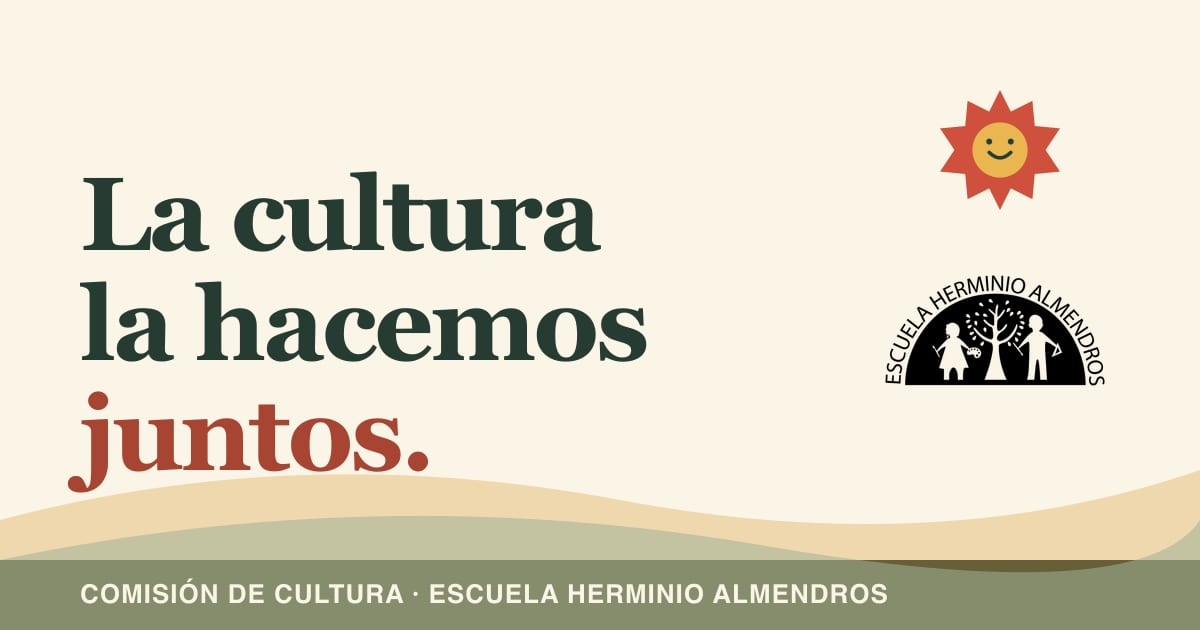
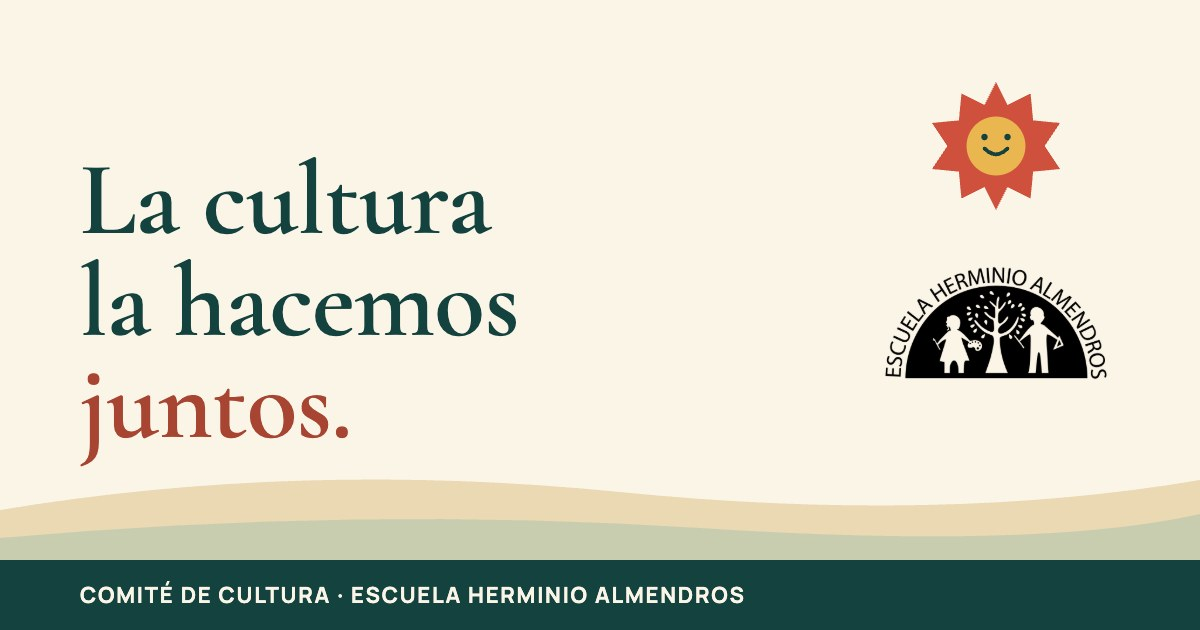
style: verde petróleo de la Escuela en tinta, portadas y pie
ink pasa a #14423f, el mismo verde del sitio de la Escuela; ink-hover y
cover-forest salen de su familia. DESIGN.md registra la regla y la
revisión 6 del teatro.

diff --git a/src/styles/tailwind.css b/src/styles/tailwind.css
@@ -18,7 +18,7 @@
   --color-*: initial;
   --color-white: #fff;
   --color-paper: #fbf5e8;
-  --color-ink: #263b32;
+  --color-ink: #14423f;
   --color-coral: #a74432;
   --color-rust: #823324;
   --color-sun: #dca342;
@@ -29,7 +29,7 @@
   --color-gold: #e3bc75;
   --color-mist: #d1d5c5;
   --color-ochre: #e7bc62;
-  --color-forest: #385b4c;
+  --color-forest: #265e55;
   --color-sage: #dce3d3;
   --color-blush: #e9c9b6;
   --color-note: #e3e8dc;
@@ -152,10 +152,10 @@
     border: 1px solid #ffffffb3;
     box-shadow:
       inset 0 1px 0 #ffffffe6,
-      inset 0 -1px 0 #263b3214,
+      inset 0 -1px 0 #14423f14,
       inset 0 0 18px #ffffff59,
-      0 8px 28px #263b321f,
-      0 1px 3px #263b321a;
+      0 8px 28px #14423f1f,
+      0 1px 3px #14423f1a;
     backdrop-filter: blur(18px) saturate(1.35) brightness(1.06);
     -webkit-backdrop-filter: blur(18px) saturate(1.35) brightness(1.06);
   }

diff --git a/src/styles/global.css b/src/styles/global.css
@@ -585,7 +585,7 @@ button svg {
 }
 .paper-link:hover {
   transform: translateY(-2px);
-  background: #3c5646;
+  background: #215551;
 }
 .paper-link:active {
   transform: translateY(1px);
@@ -895,7 +895,7 @@ button svg {
   align-items: baseline;
   gap: 16px;
   padding: 16px 0;
-  border-top: 1px solid #263b3233;
+  border-top: 1px solid #14423f33;
 }
 .program-list li > span:first-child {
   font-family: "Cormorant Garamond", Georgia, serif;
@@ -976,7 +976,7 @@ button svg {
   gap: 24px;
   text-decoration: none;
   padding: 24px 0;
-  border-top: 1px solid #263b3244;
+  border-top: 1px solid #14423f44;
 }
 .reading-links strong {
   font-family: "Cormorant Garamond", Georgia, serif;

diff --git a/DESIGN.md b/DESIGN.md
@@ -1,19 +1,19 @@
 ---
-name: "Herminio · Teatro de papel (revisión 5)"
-description: "Teatro conducido por scroll vertical nativo, vistas previas en inicio y páginas editoriales independientes."
+name: "Herminio · Teatro de papel (revisión 6)"
+description: "Teatro de una escena a la vez con cambio automático de actos, vistas previas en inicio y páginas editoriales independientes."
 colors:
   paper: "#fbf5e8"
-  ink: "#263b32"
+  ink: "#14423f"
   coral: "#a74432"
   rust: "#823324"
   yellow: "#dca342"
   blue: "#4b6899"
   wood: "#3c251e"
-  ink-hover: "#3c5646"
+  ink-hover: "#215551"
   theatre-label: "#fff2d8"
   books-sage: "#dce3d3"
   cover-ochre: "#e7bc62"
-  cover-forest: "#385b4c"
+  cover-forest: "#265e55"
   bulletin-paper: "#eed7c6"
   night-copy: "#fff5db"
   night-emphasis: "#efd38b"
@@ -59,11 +59,6 @@ typography:
     fontSize: "16px"
     fontWeight: 400
     lineHeight: 1.6
-  scene-body:
-    fontFamily: "Manrope, sans-serif"
-    fontSize: "16px"
-    fontWeight: 400
-    lineHeight: 1.75
   reader-intro:
     fontFamily: "Manrope, sans-serif"
     fontSize: "20px"
@@ -104,12 +99,11 @@ components:
   button-text:
     textColor: "{colors.ink}"
     padding: "0 0 4px"
-  stage-button:
-    backgroundColor: "#42251dcc"
-    textColor: "{colors.theatre-label}"
-    rounded: "{rounded.control}"
-    height: "44px"
-    width: "44px"
+  act-label:
+    backgroundColor: "{colors.paper}"
+    textColor: "{colors.ink}"
+    width: "200px"
+    padding: "4px"
   header-glass:
     backgroundColor: "#fbf5e8c9"
     textColor: "{colors.ink}"
@@ -122,20 +116,20 @@ components:
     padding: "48px"
 ---
 
-# Design System: Herminio · Teatro de papel · revisión 5
+# Design System: Herminio · Teatro de papel · revisión 6
 
 ## Overview
 
 **Creative North Star: "Teatro de papel"**
 
-La revisión 5 conserva el teatro de papel en la entrada y usa el desplazamiento vertical nativo del documento para conducir todos sus pasos: primero viaja el contenido horizontalmente y después cambia la escenografía completa. Figuras y capas entran, se desplazan y salen durante ese recorrido. Al terminar, el inicio ofrece vistas previas de libros y actividades y una invitación a los boletines; Cartelera, Libros y Boletines tienen páginas propias. Esta instrucción del usuario sustituye el carrusel horizontal independiente de v4, sin reemplazar la identidad elegida. El `ship` de v4 queda como antecedente histórico del sitio, no como aprobación de esta revisión.
+La revisión 6 conserva el teatro de papel en la entrada, pero ya no lo liga al scroll: el escenario mide una pantalla y muestra un acto a la vez. Cada (9s) los actos cambian solos con un apagón por zonas; flechas en la etiqueta del acto permiten moverse a mano. La revisión 5 conducía seis pasos con el scroll vertical (viajes horizontales, cambios verticales de decorado y figuras que entraban y salían); se retiró en noviembre de 2026 porque la página se sentía pesadísima, sobre todo al compartir pantalla. Debajo del teatro, el inicio ofrece vistas previas de Boletines, Cartelera y Lecturas, que tienen páginas propias.
 Las figuras SVG originales, la fibra de papel y el telón raster mantienen un mundo gráfico común. Cormorant Garamond da carácter cultural a los títulos y Manrope sostiene la lectura. Una cabecera delgada de vidrio translúcido, pedida expresamente por el usuario, permite acceder directamente a los contenidos. La noche es una escenografía azul completa con texto claro, no una transformación global del sitio.
 
 **Key Characteristics:**
 
 - Teatro sólo en la entrada; contenido editorial convencional fuera del telón.
-- Tres decorados completos: jardín, ciudad y bosque nocturno.
-- Un scroll vertical nativo conduce seis pasos, movimiento horizontal y cambios verticales de decorado.
+- Tres actos: jardín (Boletines), ciudad (Cartelera) y bosque nocturno (Lecturas).
+- Un acto a la vez; cambio automático con apagón por zonas, sin nada ligado al scroll.
 - Vistas previas con disponibilidad explícita y páginas editoriales independientes.
 - Logos escolares originales como firma comunitaria y de pie de página.
 - Cabecera translúcida de 48px y navegación directa por enlaces.
@@ -144,6 +138,8 @@ Las figuras SVG originales, la fibra de papel y el telón raster mantienen un mu
 ## Colors
 
 Papel crema y tinta verde conectan las piezas escénicas con las secciones editoriales. Los tokens registran la implementación v5; los colores literales de cada ilustración y degradado siguen siendo material local de escena.
+
+**Verde de marca: petróleo, no pino.** Desde noviembre de 2026 la tinta (`ink`) es el petróleo `#14423f` del sitio de la Escuela (`herminio-web/src/styles/brand.css`), que pasó a ese tono el 2 de noviembre de 2026 para no parecerse al verde pino `#1d4426` de Cumani (cumani.mx). Los verdes de marca e interfaz (`ink`, `ink-hover`, `cover-forest`, pie, logo de la flor) salen de la misma familia que la Escuela —verde `#14423f`, arco `#1b4d49`, `#215551`, `#265e55`— y no usan tonos pino ni verdes cálidos o amarillentos. Los verdes de paisaje (jardín, follaje, bosque) son material de escena y no siguen esta regla. Contraste sobre papel `#fbf5e8`: `ink` 10.28, `ink-hover` 7.78 (texto del enlace principal en hover); título en papel nocturno sobre `cover-forest`: 6.87.
 
 ### Primary
 - **Coral teatral** (`coral`): énfasis serif, navegación activa y hover de enlaces.
@@ -159,9 +155,9 @@ Papel crema y tinta verde conectan las piezas escénicas con las secciones edito
 ### Neutral
 - **Papel crema** (`paper`), **tinta verde** (`ink`) y **tinta activa** (`ink-hover`): superficies de lectura, texto y enlace principal.
 - **Madera oscura** (`wood`) y **luz de sala** (`theatre-label`): exterior de la entrada y controles sobre el telón.
-- **Papel nocturno** (`night-copy`), **oro nocturno** (`night-emphasis`) y **papel del enlace nocturno** (`night-link`): contraste de la copia y enlace principal del decorado de noche. La hoja del segundo panel conserva tinta oscura sobre papel claro. Las leyendas de papel del escenario también declaran tinta verde explícita (`color: var(--ink)`), incluso dentro del decorado nocturno.
+- **Papel nocturno** (`night-copy`), **oro nocturno** (`night-emphasis`) y **papel del enlace nocturno** (`night-link`): contraste de la copia y enlace principal del decorado de noche. Las leyendas de papel del escenario también declaran tinta verde explícita (`color: var(--ink)`), incluso dentro del decorado nocturno.
 
-Los tres cielos y sus degradados forman parte de decorados completos, sin un estado `--night` global ni botones para cambiar la luz. Cada escena declara además un fondo base local —jardín `#ead9b2`, ciudad `#edc9b5` y noche `#29356b`— para conservar una superficie estable si no se representa el degradado. La cortina acompaña la llegada del bosque nocturno mediante brillo dependiente de la posición vertical. El verde `--mint` sigue declarado, pero no se registra como token activo porque el código no lo asigna a una superficie.
+Los tres cielos y sus degradados forman parte de decorados completos, sin un estado `--night` global ni botones para cambiar la luz. Cada escena declara además un fondo base local —jardín `#ead9b2`, ciudad `#edc9b5` y noche `#29356b`— para conservar una superficie estable si no se representa el degradado. El telón no se oscurece nunca: ni en la noche ni durante el apagón. El verde `--mint` sigue declarado, pero no se registra como token activo porque el código no lo asigna a una superficie.
 
 **The Same Paper Rule.** Fuera del teatro se conservan fibra, ilustraciones, tinta, serif y colores de papel; la continuidad gráfica no necesita conservar la cortina.
 
@@ -178,10 +174,10 @@ Los tres cielos y sus degradados forman parte de decorados completos, sin un est
 - **Cover title:** títulos de cubiertas; pasan a (30px) hasta (1100px) y a (24px) hasta (700px).
 - **Title:** título de publicación destacada; títulos auxiliares comparten esta familia y escala con variaciones locales.
 - **Reader headline / Reader title:** título y subtítulos del artículo.
-- **Body / Scene body / Reader intro:** texto general, presentación escénica y entradilla de artículo.
+- **Body / Reader intro:** texto general y entradilla de artículo. Los actos del teatro no llevan párrafo: sólo etiqueta de sección, título, botón y leyenda de papel.
 - **Label:** navegación y enlaces de vuelta; el enlace principal usa (14px), peso (700).
 
-Los titulares escénicos pasan a (72px) hasta (1100px) de ancho y a (48px) hasta (700px), también a (48px) cuando la altura disponible no supera (720px). Las hojas de segundo panel pasan a (36px) en móvil o altura reducida. Los títulos de páginas editoriales pasan a (60px) en móvil; los títulos de sección del inicio parten de (72px), pasan a (60px) y llegan a (48px) hasta (370px). Los títulos de eventos pasan de (36px) a (30px) en móvil. La lectura pasa de (64px) a (48px) hasta (700px) y a (36px) hasta (370px).
+Los titulares escénicos pasan a (72px) hasta (1100px) de ancho y a (48px) hasta (700px), también a (48px) cuando la altura disponible no supera (720px). Los títulos de páginas editoriales pasan a (60px) en móvil; los títulos de sección del inicio parten de (72px), pasan a (60px) y llegan a (48px) hasta (370px). Los títulos de eventos pasan de (36px) a (30px) en móvil. La lectura pasa de (64px) a (48px) hasta (700px) y a (36px) hasta (370px).
 Metadatos editoriales se mantienen en (12px). Los apoyos móviles, la marca pequeña y la navegación estrecha que antes eran menores usan ahora (11px). Se registra el valor real, pero **no se canoniza como mínimo universal de legibilidad**.
 
 **The Two Voices Rule.** Los títulos culturales usan Cormorant Garamond; párrafos, navegación y controles usan Manrope.
@@ -190,32 +186,35 @@ Metadatos editoriales se mantienen en (12px). Los apoyos móviles, la marca pequ
 
 La cabecera es fija, mide (48px), está a (12px) del borde superior y tiene márgenes laterales (24px), ancho máximo (1392px) y relleno (8px 24px). Hasta (700px) queda a (8px) de los bordes con relleno (8px 12px) y radio menor. Sus enlaces llevan directamente a `/cartelera/`, `/libros/` y `/boletines/`; el acceso del inicio a `#descubrir` permite saltar la entrada.
 
-La entrada contiene tres decorados de dos paneles cada uno dentro de un viewport sticky de (100svh). El scroll vertical nativo es el reloj de toda la coreografía. El motor usa un paso por decorado de (2.8) alturas escénicas, un recorrido de (7.6) alturas y una ventana adicional: la entrada ocupa (8.6) alturas. En cada decorado, el viaje horizontal empieza en (0.4) y dura (1.05) alturas; el cambio vertical al siguiente decorado ocurre de (2.0) a (2.8). El último decorado termina después de sus dos paneles. El telón es absoluto dentro de ese viewport, con z-index (60); la cabecera tiene (80) y los controles de entrada (65).
+La entrada mide una pantalla (100svh) y apila los tres actos en el mismo lugar; sólo el activo es visible (`.is-active`) y los demás quedan `inert` y `aria-hidden`. Después del teatro la página sigue en flujo normal. El telón es absoluto dentro del escenario, con z-index (60); la cabecera tiene (80) y la etiqueta del acto (65). El teatro proyecta una sombra suave sobre la página que sigue.
 
-Las pistas horizontales son capas transformadas por ese reloj, sin carrusel nativo independiente, swipe lateral obligatorio ni scroll-snap activo. El motor escucha scroll de forma pasiva y no cancela wheel ni touch. Un `requestAnimationFrame` bajo demanda pinta los cambios; `ResizeObserver` mide el escenario y la altura `svh` mantiene estable el recorrido ante la barra del navegador móvil. El motor no reescribe el hash.
+`src/scripts/world.js` no lee el scroll. El reloj del cambio de acto es la propia línea de la etiqueta: una animación CSS de (9s) que, al terminar (`animationend`), pasa al acto siguiente. Pausar la animación pausa el cambio: con foco de teclado dentro del escenario, con el teatro fuera de pantalla (`IntersectionObserver`) o con la pestaña oculta. El mouse no pausa, porque el escenario ocupa toda la pantalla. Usar una flecha detiene el cambio automático y oculta la línea.
 
-Después de la entrada, el inicio ofrece el estante de libros, dos ideas de actividades y la firma comunitaria con enlace a boletines. La sección base tiene ancho máximo (1248px) y relleno (96px 48px); hasta (1100px), (80px 40px); hasta (700px), (64px 24px). El estante usa tres columnas con separación (48px), después (32px), y dos columnas móviles con separación (40px 24px). El inicio muestra dos cubiertas en móvil; la página Libros conserva las tres. Los eventos usan dos columnas y se apilan hasta (700px).
+Después de la entrada, el inicio ofrece vistas previas de Boletines, Cartelera (o un aviso para proponer planes cuando no hay eventos próximos) y Lecturas, y la firma comunitaria. La sección base tiene ancho máximo (1248px) y relleno (96px 48px); hasta (1100px), (80px 40px); hasta (700px), (64px 24px). El estante usa tres columnas con separación (48px), después (32px), y dos columnas móviles con separación (40px 24px). El inicio muestra dos cubiertas en móvil; la página Libros conserva las tres. Los eventos usan dos columnas y se apilan hasta (700px).
 
 Cartelera, Libros y Boletines usan páginas y enlaces propios, con ruta de regreso a Inicio y cabecera compartida. Su contenido empieza con separación superior (104px), reducida a (88px) en móvil. Las composiciones editoriales de escritorio usan dos columnas, con separaciones de (64px) u (80px), y se apilan en móvil. La lectura independiente usa ancho máximo (864px), margen superior (128px) y relleno (48px 64px); en móvil ocupa el ancho menos (32px), con relleno (32px 24px).
 
 ## Elevation & Depth
 
-Las capas de cartón usan sombras negras suaves y fibra recortada a sus siluetas. El jardín, la arquitectura de ciudad y el bosque nocturno existen simultáneamente en la pila; bajar desplaza el conjunto completo y deja ver la siguiente escenografía. La noche usa su propio cielo y color claro de copia, sin grandes focos que oculten las figuras.
+Las capas de cartón usan sombras negras suaves y fibra recortada a sus siluetas. La noche usa su propio cielo y color claro de copia, sin grandes focos que oculten las figuras.
+
+**Apagón entre actos.** Se apaga por zonas, como las varas de luces de un escenario, con tres capas de sombra intercaladas entre los planos que sólo cambian de opacidad: el fondo baja lento a azul noche (`dim-back`, bajo los personajes), los personajes se van en ámbar y más desde arriba (`dim-mid`, sobre ellos) y el frente se corta de golpe (`dim-all`, sobre todo). El texto se desvanece con el fondo para que no parezca cambiar de color. La escena cambia a oscuras ((1.15s)) y las zonas vuelven en orden inverso. El telón y la etiqueta quedan iluminados. No se usan focos circulares ni parpadeos.
 
 ### Shadow Vocabulary
 - **Pieza de cartón:** `drop-shadow(4px 10px 5px #0003)`, después del filtro de fibra.
 - **Ilustración de escena:** `drop-shadow(6px 20px 10px #0003)`.
 - **Hoja de papel:** `8px 16px 24px #0002`.
-- **Cortina:** `drop-shadow(6px 12px 10px #0005)`, junto con brillo que acompaña el decorado nocturno.
+- **Cortina:** `drop-shadow(6px 12px 10px #0005)`, sin cambios de brillo.
+- **Teatro sobre la página:** `0 6px 10px #3c251e40, 0 18px 36px -8px #3c251e33`.
 - **Cabecera:** `0 4px 16px #00000014`, con vidrio translúcido y desenfoque de fondo (16px).
 - **Artículo:** `4px 12px 32px #00000012`.
 - **Cubierta de libro:** `5px 12px 18px #0002`.
 
 **The Intro Boundary Rule.** El telón pertenece únicamente al viewport de la entrada y sale del documento con ella. Las secciones editoriales y los artículos no llevan cortinaje.
 
-**The Native Scroll Rule.** El desplazamiento vertical nativo conduce el contenido horizontal, las figuras y el cambio vertical de decorados. La animación sigue la posición del documento sin capturar wheel ni touch.
+**The Light Stage Rule.** Nada del teatro se liga al scroll. Las animaciones del escenario sólo cambian `opacity` y `transform`; ningún `filter` ni dimensión se anima. Las escenas ocultas y el teatro fuera de pantalla pausan sus animaciones ambientales.
 
-La pausa o la preferencia de movimiento reducido colocan los seis paneles en el flujo natural del documento, retiran el telón y la progresión animada y hacen accesible todo el contenido, sin `inert`. Al cambiar de modo se conserva el panel de lectura; fuera de la entrada se conserva la distancia respecto a su final. El control permanece disponible mientras se recorre la entrada en modo lineal, se oculta al salir de ella y se deshabilita cuando la preferencia del dispositivo exige movimiento reducido. En modo animado, `inert` limita la interacción al panel activo y el foco sale de un panel que se retira antes de desactivarlo. El modo reducido elimina transiciones CSS y desplazamientos de hover.
+Con movimiento reducido los actos no cambian solos (la línea de la etiqueta no se muestra), no hay apagón y las flechas cambian de acto directamente. El modo reducido elimina transiciones CSS y desplazamientos de hover.
 
 La textura de lectura se atenúa mediante una capa crema (`#fbf5e8eb`) sobre la fibra; el fondo de artículo usa (`#fbf5e8ed`). La fibra del conjunto escénico queda en opacidad (.12) y la del mundo editorial en (.035). Los recortables mantienen su material y las cubiertas usan una capa de fibra propia en (.1).
 
@@ -233,7 +232,9 @@ Los materiales conservados son `public/assets/curtain-frame-v2.webp` y `public/a
 
 El enlace principal usa tinta y papel, relleno compacto, radio regular y flecha SVG. Sube (2px) en hover y baja (1px) en pulsación, con transición (0.35s). En la primera lámina del bosque nocturno invierte el contraste según su variante del frontmatter. El enlace de texto usa subrayado fino y flecha SVG (24px), con hover coral. El foco global es azul (3px), separado del elemento (5px).
 
-La invitación «Sigue bajando para recorrer el teatro», el contador de seis pasos y la barra de progreso explican el recorrido. El único botón escénico controla el movimiento; mide (44px), usa fondo marrón translúcido, borde crema y `aria-pressed`. No existen flechas anterior/siguiente de carrusel. El control queda deshabilitado si el dispositivo exige movimiento reducido; en lectura lineal permanece fijo durante la entrada para permitir reactivar el recorrido y se oculta al dejarla atrás.
+La etiqueta del acto es un papel sobre las candilejas: «Primer acto / Segundo acto / Tercer acto» en Cormorant cursiva color óxido, el nombre del acto debajo y flechas «Acto anterior» y «Acto siguiente» a los lados. Tiene ancho fijo ((200px), (172px) en móvil) y no parte el nombre, para no moverse al cambiar de acto. Una línea óxido de (2px) en su borde inferior se llena en (9s) hasta el cambio.
+
+Cada acto y cada sección del inicio llevan sobre su título una etiqueta de sección (Boletines, Cartelera, Lecturas): una raya de (24px) y el nombre en Manrope (14px), peso (700), color óxido (oro nocturno en la noche). Dice qué es; el título, por qué entrar.
 
 ### Metadata
 
@@ -253,14 +254,14 @@ Los PNG originales de la Escuela Herminio Almendros, aportados por Rodrigo y con
 
 ### Intro Scenes
 
-Jardín, ciudad y bosque nocturno tienen fondos, figuras y luces propios. Todos los desplazamientos se calculan de forma determinista desde la posición vertical y se revierten al subir; figuras y planos tienen entradas, desplazamientos y salidas diferenciadas. Las capas son decorativas; texto y enlaces son HTML. Si falla el script, las escenas quedan en flujo y se ocultan marco y controles escénicos. Los accesorios de temporada siguen la fecha de Ciudad de México: la ventana de Muertos es del (20 de octubre) al (3 de noviembre), sin selector para visitantes. Navidad, Niñez y Cultura siguen pendientes.
+Jardín (Boletines), ciudad (Cartelera) y bosque nocturno (Lecturas) tienen fondos, figuras y luces propios; nubes, banderines, estrellas y luciérnagas se mueven con animaciones CSS suaves. Las capas son decorativas; texto y enlaces son HTML. Si falla el script, se ve el primer acto sin telón ni etiqueta. En móvil la nota de novedades no se abre sola, para no tapar el escenario. Los accesorios de temporada siguen la fecha de Ciudad de México: la ventana de Muertos es del (20 de octubre) al (3 de noviembre), sin selector para visitantes. Navidad, Niñez y Cultura siguen pendientes.
 
 ## Do's and Don'ts
 
 ### Do:
 
-- **Do** limitar el marco y la coreografía a la entrada y mantener accesible el control de movimiento en el modo lineal.
-- **Do** conducir todos los pasos teatrales desde el scroll vertical nativo, con viajes horizontales y cambios verticales de decorado.
+- **Do** limitar el marco y la coreografía a la entrada, con un acto a la vez y flechas para moverse a mano.
+- **Do** animar el escenario sólo con opacidad y transform, y pausarlo fuera de pantalla.
 - **Do** mantener enlaces nativos a páginas editoriales y artículos, con URL e historial del navegador.
 - **Do** compartir ilustraciones, fibra y tipografía entre la entrada y el sitio editorial.
 - **Do** mantener la cabecera translúcida delgada solicitada, con contenido interior separado de sus bordes.
@@ -270,7 +271,8 @@ Jardín, ciudad y bosque nocturno tienen fondos, figuras y luces propios. Todos 
 
 - **Don't** extender el telón a cartelera, libros, boletines ni lectura independiente.
 - **Don't** reintroducir selectores de decorado o iluminación ni el foco cálido global de v3.
-- **Don't** cancelar wheel o touch ni exigir un carrusel horizontal independiente para completar el recorrido.
+- **Don't** volver a ligar el teatro al scroll ni animar filtros o dimensiones del escenario: es lo que lo hizo pesado.
+- **Don't** oscurecer el telón ni usar focos circulares o parpadeos en el apagón.
 - **Don't** convertir los rótulos de 11px del sitio en mínimos de lectura del sistema.
 - **Don't** presentar las próximas reseñas o ideas de actividades como publicaciones o eventos ya confirmados.
 

diff --git a/README.md b/README.md
@@ -50,7 +50,7 @@ La rama `main` está conectada al proyecto de Vercel. Publicar cambios en esa ra
 
 Las etiquetas Open Graph (WhatsApp, Facebook), `canonical`, `sitemap-index.xml` y `robots.txt` necesitan la dirección pública del sitio. Se toma, en este orden, de la variable de entorno `SITE_URL` (por ejemplo `https://cultura.mi-dominio.mx`), del dominio de producción que Vercel expone (`VERCEL_PROJECT_PRODUCTION_URL`) o, si no hay ninguna, de `https://herminio-cultura.vercel.app`. Al tener dominio propio, basta con definir `SITE_URL` en Vercel (Settings → Environment Variables) y volver a desplegar.
 
-La imagen al compartir es la portada del artículo (`cover`), recortada a 1200×630 en JPG. Las páginas sin portada usan `public/og-default.jpg`. WhatsApp guarda en caché la vista previa de cada enlace; si cambias la imagen o el texto de uno ya compartido, vuelve a generarla con el depurador de Facebook (developers.facebook.com/tools/debug).
+La imagen al compartir es la portada del artículo (`cover`), recortada a 1200×630 en JPG. Las páginas sin portada usan `public/og-default.jpg`, que se genera desde `docs/assets/og-default.html`. WhatsApp guarda en caché la vista previa de cada enlace; si cambias la imagen o el texto de uno ya compartido, vuelve a generarla con el depurador de Facebook (developers.facebook.com/tools/debug).
 
 ## Contenidos
 
